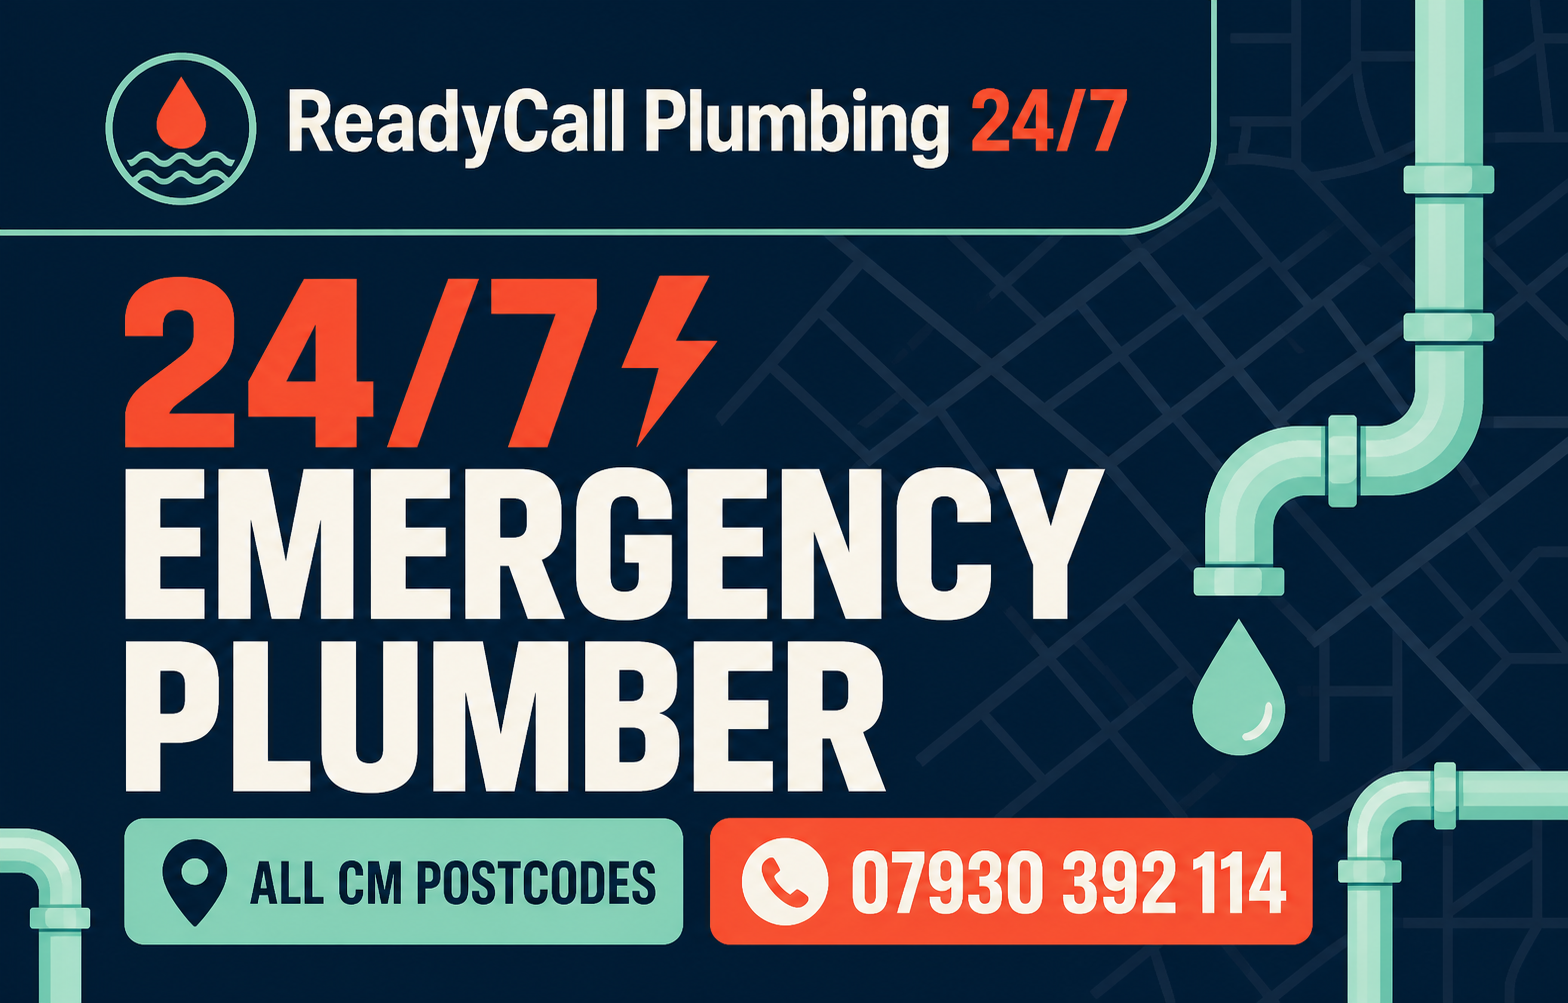
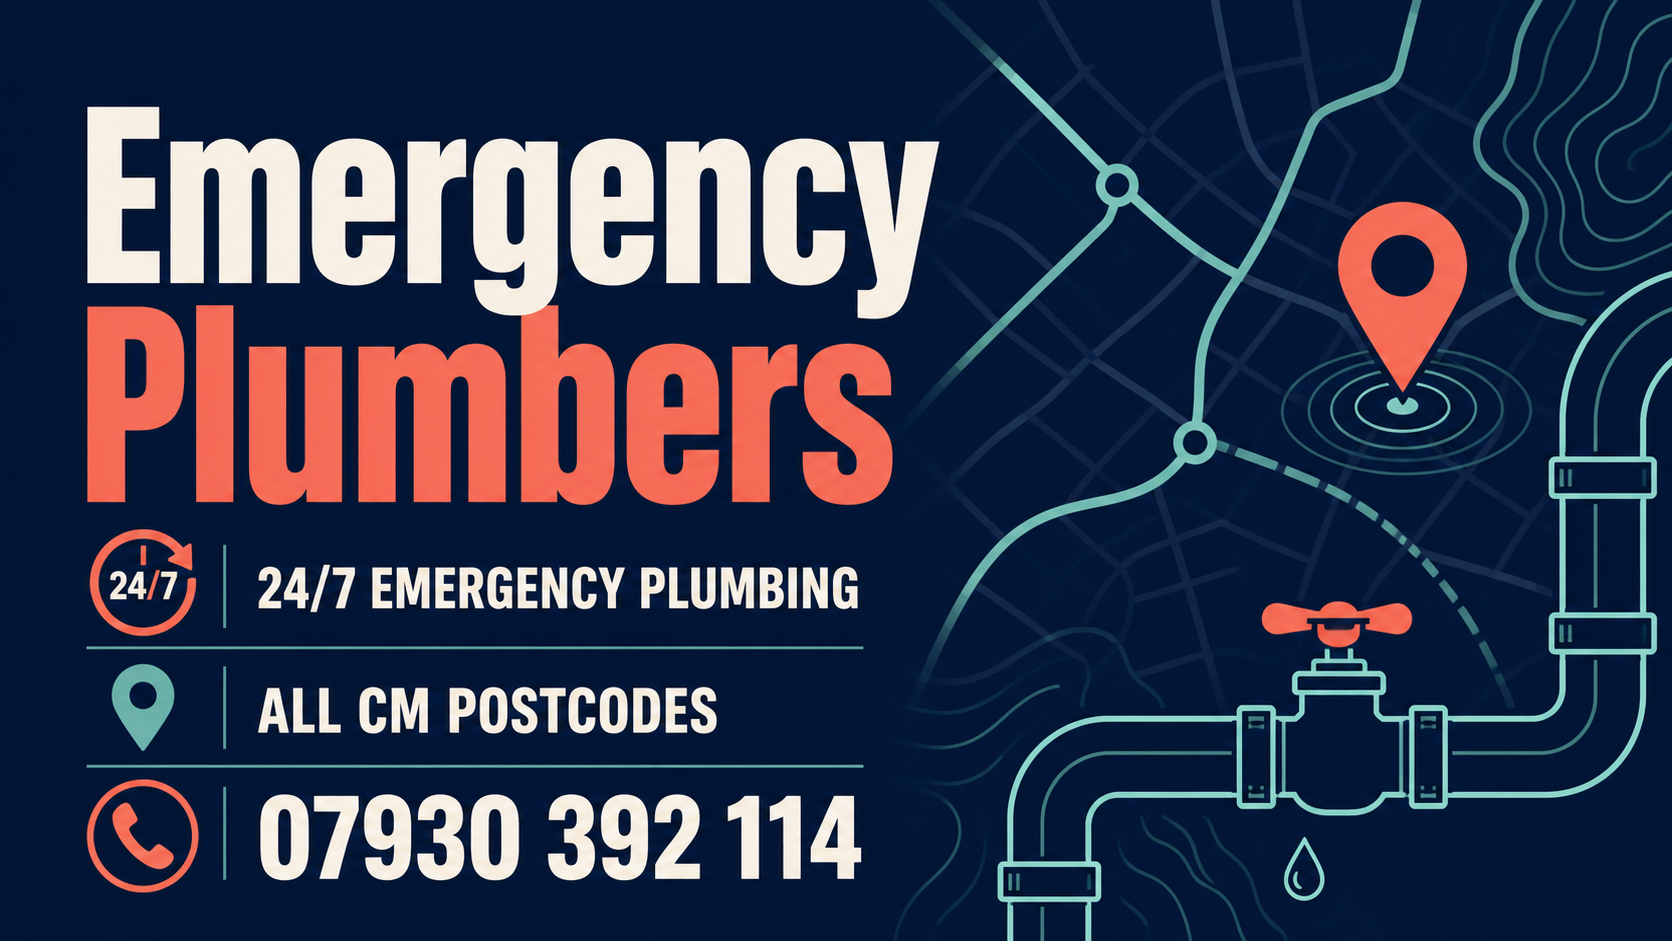
Rebrand site as Emergency Plumbers

diff --git a/app/globals.css b/app/globals.css
@@ -80,13 +80,13 @@ summary:focus-visible {
 }
 
 .topline-call {
-  min-height: 28px;
   display: inline-flex;
   align-items: center;
   gap: 8px;
   flex: 0 0 auto;
-  padding: 4px 9px;
-  background: var(--navy-deep);
+  min-height: 34px;
+  padding: 5px 13px;
+  background: #16a36f;
   color: var(--white);
   border-radius: 3px;
   font-family: var(--font-mono);
@@ -96,9 +96,9 @@ summary:focus-visible {
   transition: background 160ms ease, transform 160ms ease;
 }
 
-.topline-call:hover { background: #0b3048; transform: translateY(-1px); }
-.topline-call-label { color: var(--orange); font-size: .55rem; letter-spacing: .1em; text-transform: uppercase; }
-.topline-call > span:last-child { color: var(--mint); }
+.topline-call:hover { background: #0c865a; transform: translateY(-1px); }
+.topline-call-label { color: #d9ffe9; font-size: .55rem; letter-spacing: .1em; text-transform: uppercase; }
+.topline-call > span:last-child { color: #d9ffe9; }
 
 .site-header {
   position: sticky;
@@ -182,8 +182,9 @@ summary:focus-visible {
   align-items: center;
   gap: 10px;
   padding: 9px 15px;
-  border: 1px solid rgb(9 38 58 / .16);
-  background: var(--white);
+  border: 1px solid #109061;
+  background: #16a36f;
+  color: var(--white);
   border-radius: 6px;
   box-shadow: 0 4px 16px rgb(9 38 58 / .06);
   transition: transform 160ms ease, box-shadow 160ms ease;
@@ -191,7 +192,7 @@ summary:focus-visible {
 
 .header-call:hover {
   transform: translateY(-2px);
-  box-shadow: 0 8px 24px rgb(9 38 58 / .12);
+  box-shadow: 0 8px 24px rgb(22 163 111 / .28);
 }
 
 .phone-dot {
@@ -218,7 +219,7 @@ summary:focus-visible {
 .header-call > span:last-child { display: grid; }
 
 .header-call small {
-  color: var(--ink-soft);
+  color: #d9ffe9;
   font-size: .66rem;
   font-weight: 700;
   text-transform: uppercase;
@@ -339,12 +340,12 @@ summary:focus-visible {
 .button:hover { transform: translateY(-2px); }
 
 .button-primary {
-  background: var(--orange);
+  background: #16a36f;
   color: var(--navy-deep);
   box-shadow: 0 10px 22px rgb(242 95 58 / .23);
 }
 
-.button-primary:hover { background: #ff704b; box-shadow: 0 13px 28px rgb(242 95 58 / .3); }
+.button-primary:hover { background: #0c865a; box-shadow: 0 13px 28px rgb(22 163 111 / .3); }
 
 .button-secondary {
   background: rgb(255 255 255 / .62);

diff --git a/app/page.tsx b/app/page.tsx
@@ -48,7 +48,7 @@ export default function Home() {
   const structuredData = {
     "@context": "https://schema.org",
     "@type": "Plumber",
-    name: "ReadyCall Plumbing 24/7",
+    name: "Emergency Plumbers",
     telephone: "+447930392114",
     areaServed: "CM postcode area, United Kingdom",
     openingHours: "Mo-Su 00:00-23:59",
@@ -68,9 +68,9 @@ export default function Home() {
 
       <header className="site-header">
         <div className="shell header-inner">
-          <a className="brand" href="#top" aria-label="ReadyCall Plumbing 24/7 home">
-            <span className="brand-mark" aria-hidden="true">RC</span>
-            <span className="brand-name"><strong>ReadyCall</strong><span>Plumbing 24/7</span></span>
+          <a className="brand" href="#top" aria-label="Emergency Plumbers home">
+            <span className="brand-mark" aria-hidden="true">EP</span>
+            <span className="brand-name"><strong>Emergency</strong><span>Plumbers</span></span>
           </a>
 
           <nav className="desktop-nav" aria-label="Main navigation">
@@ -230,11 +230,11 @@ export default function Home() {
 
       <footer>
         <div className="shell footer-main">
-          <a className="brand brand-footer" href="#top" aria-label="ReadyCall Plumbing 24/7 home"><span className="brand-mark" aria-hidden="true">RC</span><span className="brand-name"><strong>ReadyCall</strong><span>Plumbing 24/7</span></span></a>
+          <a className="brand brand-footer" href="#top" aria-label="Emergency Plumbers home"><span className="brand-mark" aria-hidden="true">EP</span><span className="brand-name"><strong>Emergency</strong><span>Plumbers</span></span></a>
           <p>24/7 emergency plumbing help across every postcode beginning with CM.</p>
           <a className="footer-phone" href={PHONE_HREF}>Call {PHONE_DISPLAY}</a>
         </div>
-        <div className="shell footer-bottom"><span>ReadyCall Plumbing 24/7</span><span>Open 24/7 • Serving the complete CM postcode area</span></div>
+        <div className="shell footer-bottom"><span>Emergency Plumbers</span><span>Open 24/7 • Serving the complete CM postcode area</span></div>
       </footer>
 
       <a className="mobile-call-bar" href={PHONE_HREF} aria-label={`Call emergency plumber on ${PHONE_DISPLAY}`}>

diff --git a/app/layout.tsx b/app/layout.tsx
@@ -14,7 +14,7 @@ const geistMono = Geist_Mono({
 
 export const metadata: Metadata = {
   metadataBase: new URL("https://cm-emergency-plumbing-help.andreiacalinescu.chatgpt.site"),
-  title: "ReadyCall Plumbing 24/7 | Emergency Plumber Across CM",
+  title: "Emergency Plumbers | 24/7 Across All CM Postcodes",
   description:
     "24/7 emergency plumbing for leaks, burst pipes, blockages and urgent problems across every CM postcode. Call 07930 392 114.",
   icons: {
@@ -22,13 +22,13 @@ export const metadata: Metadata = {
     shortcut: "/favicon.svg",
   },
   openGraph: {
-    title: "ReadyCall Plumbing 24/7 | Open 24/7",
+    title: "Emergency Plumbers | Open 24/7",
     description:
       "24/7 emergency plumbing help across every postcode beginning with CM. Call 07930 392 114.",
     images: [
       {
         url: "/og.png",
-        alt: "ReadyCall Plumbing 24/7 — emergency plumber across all CM postcodes",
+        alt: "Emergency Plumbers — 24/7 emergency plumbing across all CM postcodes",
       },
     ],
     type: "website",
@@ -36,7 +36,7 @@ export const metadata: Metadata = {
   },
   twitter: {
     card: "summary_large_image",
-    title: "ReadyCall Plumbing 24/7 | Open 24/7",
+    title: "Emergency Plumbers | Open 24/7",
     description:
       "24/7 emergency plumbing help across every postcode beginning with CM.",
     images: ["/og.png"],
